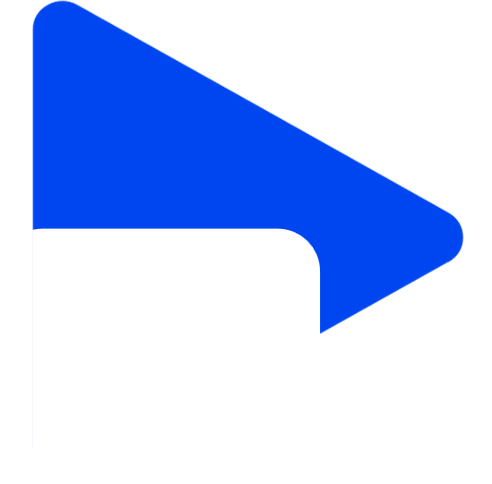
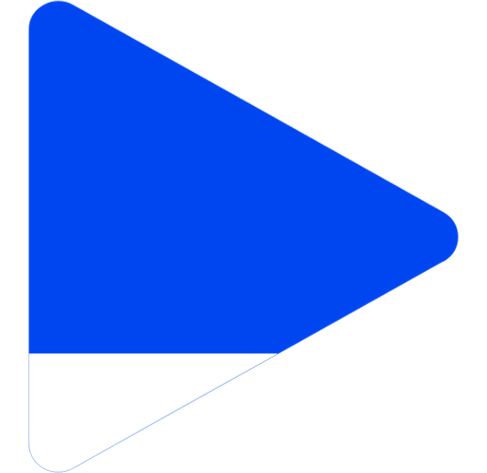
paly

diff --git a/Code/KIVYG/main.py b/Code/KIVYG/main.py
@@ -187,7 +187,7 @@ class SignalclassifierApp(App):
         self.layout.add_widget(self.setup_param_label)
         self.start_sig_box = CustomLabel(text=f'Gererieren', size_hint=(None, None), size=(int(window_width*.13), int(window_height*.1)), pos_hint={'center_x': 0.28, 'top': 0.408}, color=(1, 1, 1, 1))
         self.start_sig = Label(text=f'Generieren', size_hint=(None, None), size=(int(window_width*.13), int(window_height*.1)), pos_hint={'center_x': 0.28, 'top': 0.408}, color=(1, 1, 1, 1), font_size='13sp',  font_context='system://myapp', font_name='OpenSans-Bold.ttf')
-        self.play_button2 = Button(background_normal='KIVYG/images/play.png', size_hint=(None, None), size=(window_height*.12, window_height*.12), pos_hint={'center_x': 0.334, 'top': 0.476}, border=(0, 0, 0, 0))
+        self.play_button2 = Button(background_normal='KIVYG/images/play.png', size_hint=(None, None), size=(window_height*.12, window_height*.12), pos_hint={'center_x': 0.33, 'top': 0.479}, border=(0, 0, 0, 0))
         self.play_button2.bind(on_press=self.on_play_button_click2)
         self.layout.add_widget(self.start_sig_box)
         self.layout.add_widget(self.start_sig)
